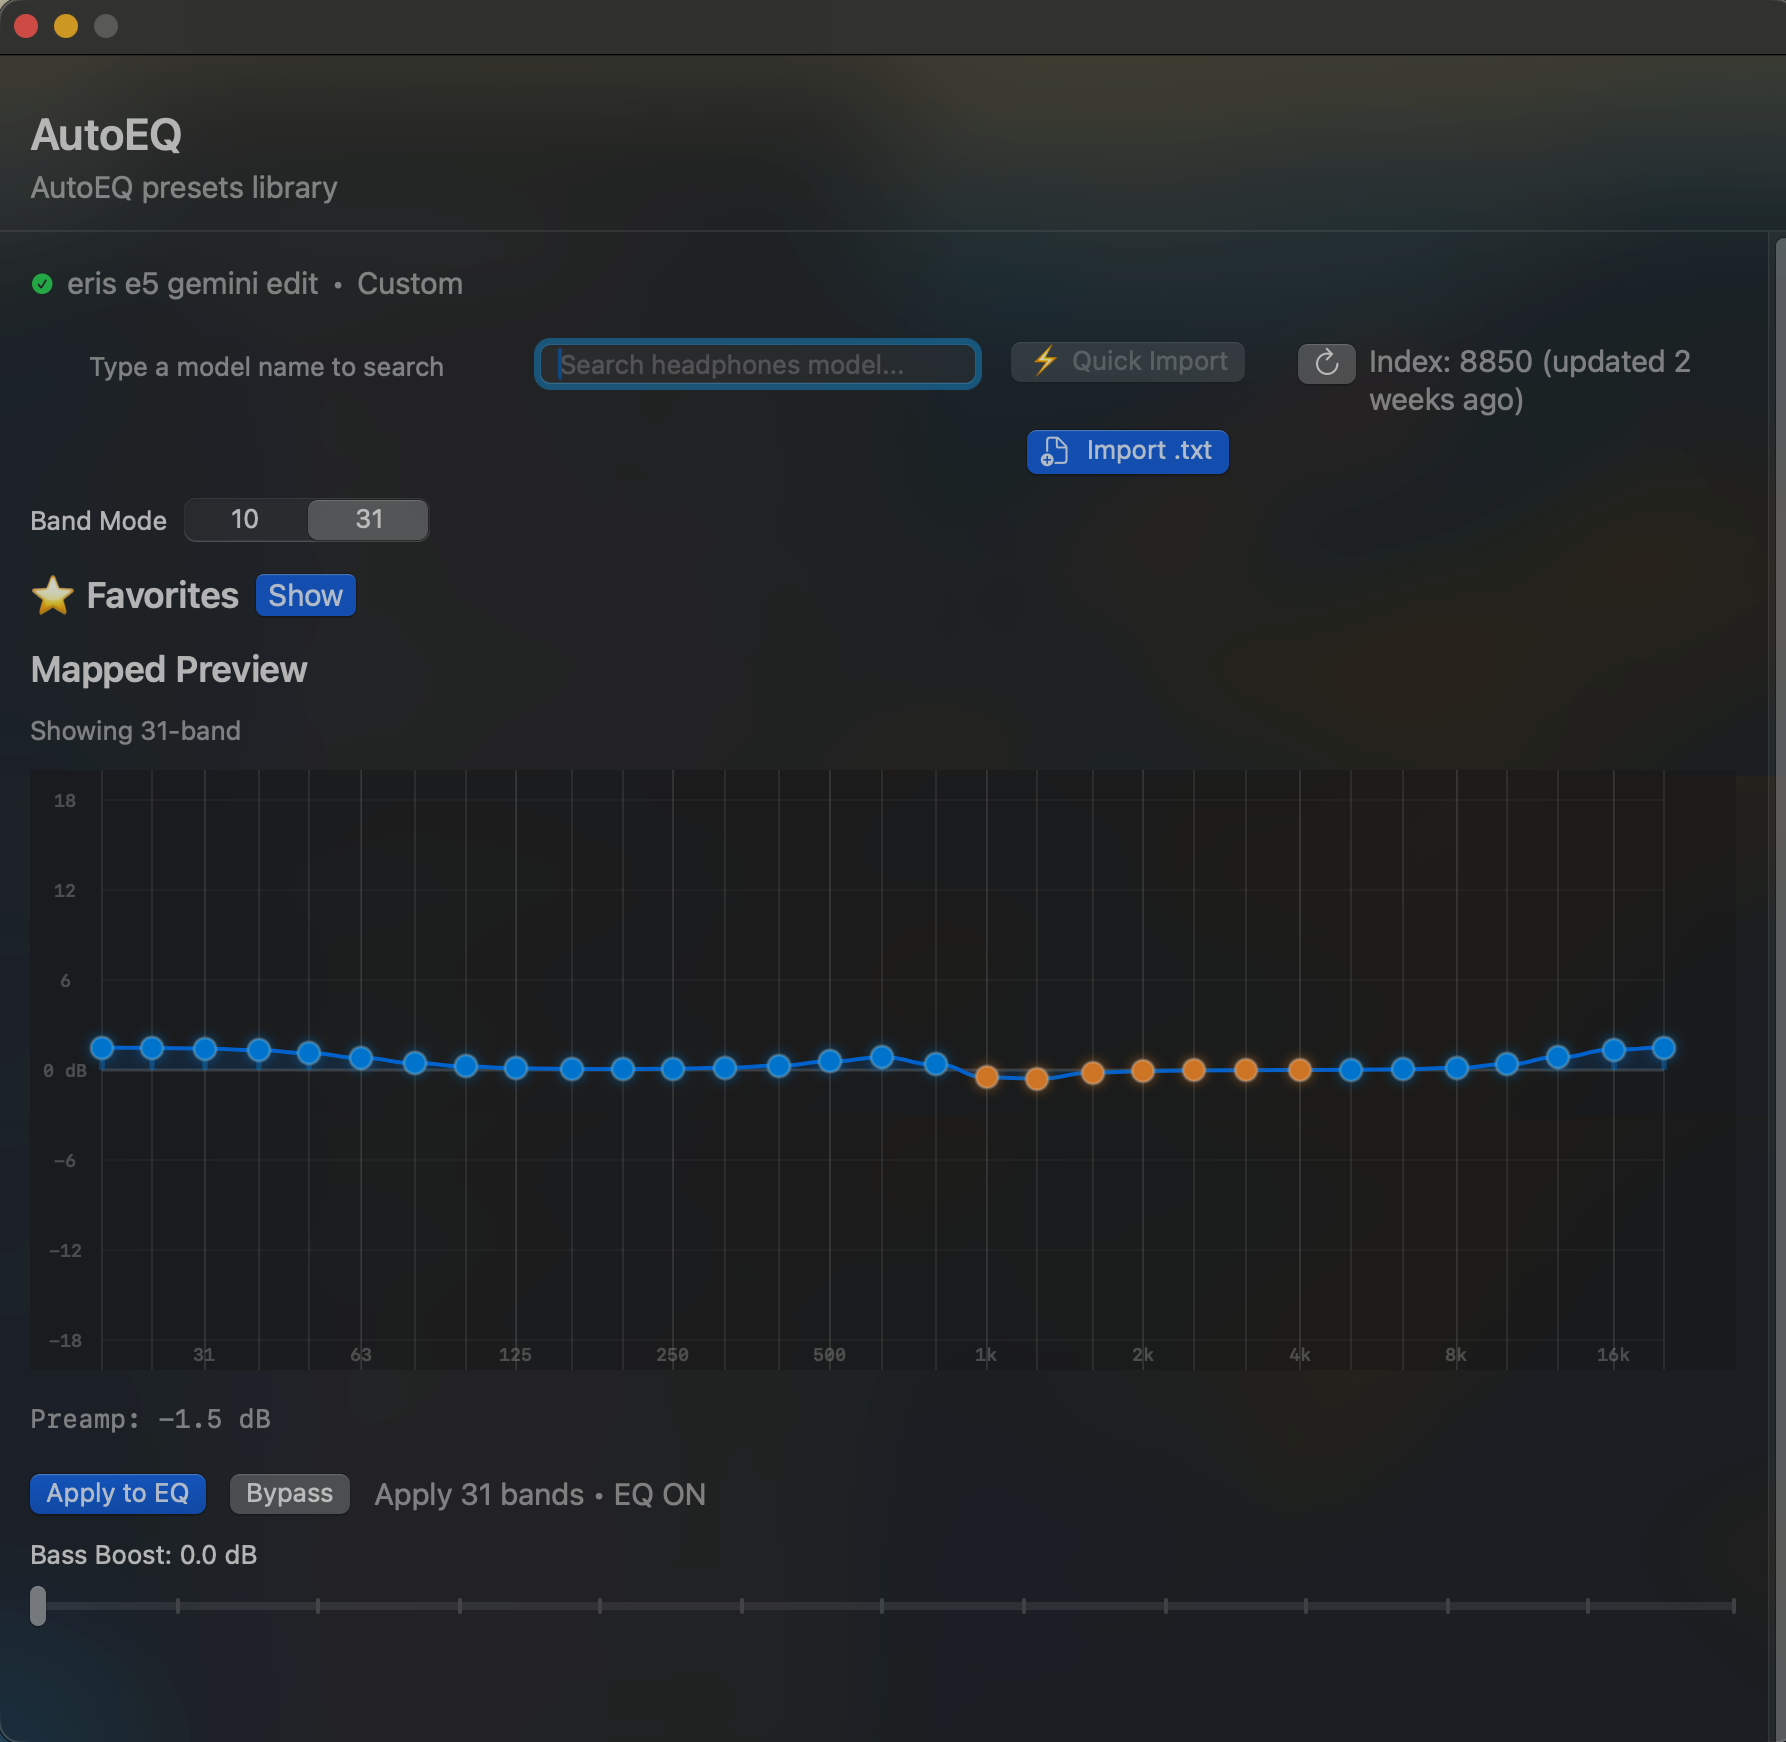
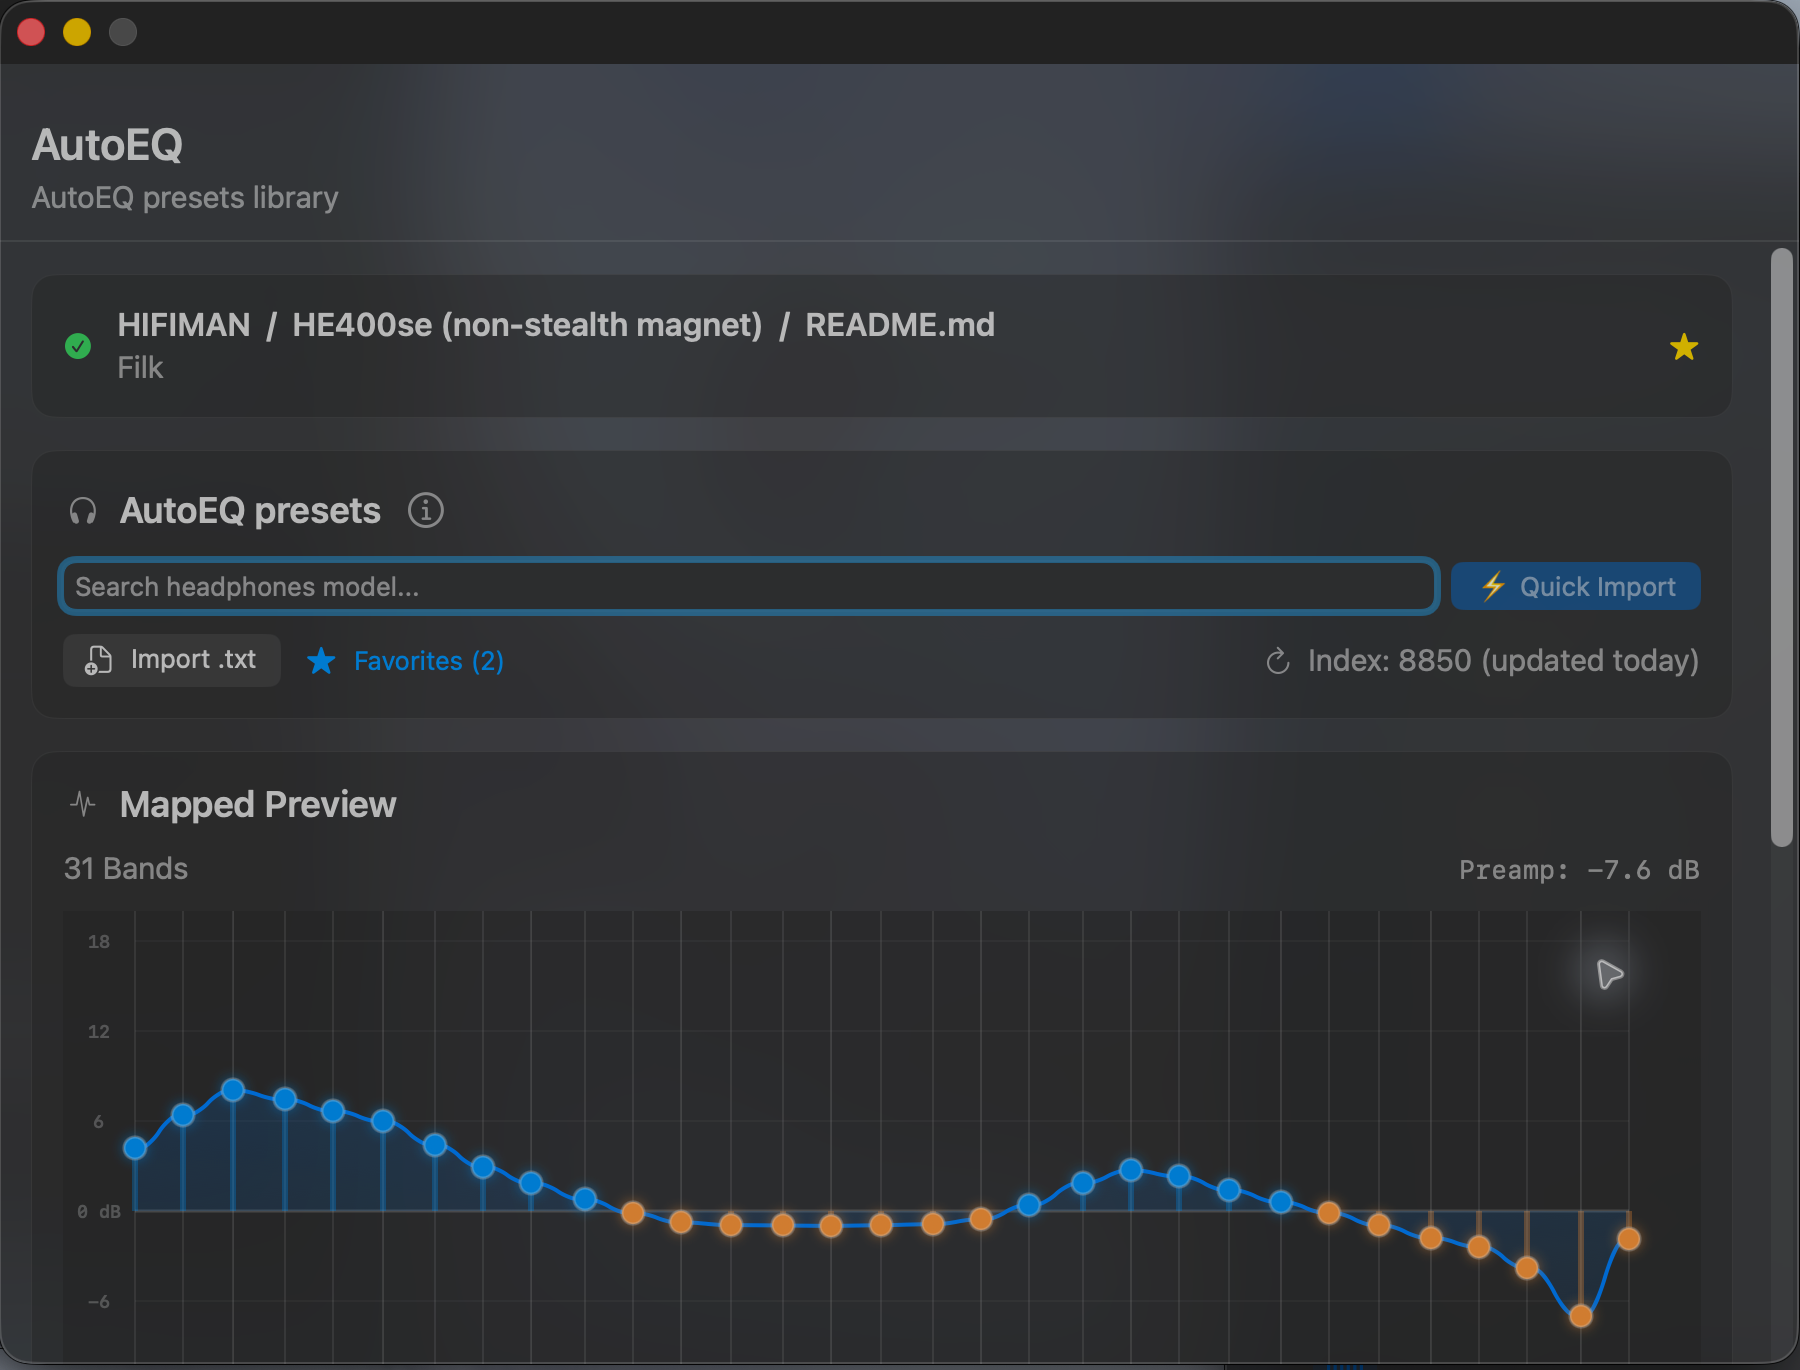
docs: refresh product screenshots

diff --git a/README.ua.md b/README.ua.md
@@ -22,9 +22,9 @@
 | :---: | :---: | :---: | :---: |
 | [![EQ](Docs/screenshots/03-eq-31.png)](Docs/screenshots/03-eq-31.png) | [![AutoEQ](Docs/screenshots/07-autoeq.png)](Docs/screenshots/07-autoeq.png) | [![Калібрація](Docs/screenshots/04-calibration.png)](Docs/screenshots/04-calibration.png) | [![Візуалізатор](Docs/screenshots/10-visualizer.png)](Docs/screenshots/10-visualizer.png) |
 
-| Суб’єктивне налаштування кімнати | Пошук резонансів |
-| :---: | :---: |
-| [![Налаштування кімнати](Docs/screenshots/05-room-tuning.png)](Docs/screenshots/05-room-tuning.png) | [![Пошук резонансів](Docs/screenshots/06-resonance.png)](Docs/screenshots/06-resonance.png) |
+| Суб’єктивне налаштування кімнати | Пошук резонансів | Пресети для кожного виводу |
+| :---: | :---: | :---: |
+| [![Налаштування кімнати](Docs/screenshots/05-room-tuning.png)](Docs/screenshots/05-room-tuning.png) | [![Пошук резонансів](Docs/screenshots/06-resonance.png)](Docs/screenshots/06-resonance.png) | [![Налаштування](Docs/screenshots/09-settings.jpeg)](Docs/screenshots/09-settings.jpeg) |
 
 ## ✨ Можливості
 

diff --git a/README.it.md b/README.it.md
@@ -22,9 +22,9 @@ dell'udito, strumenti per l'ambiente e visualizzatore in tempo reale. Nessun abb
 | :---: | :---: | :---: | :---: |
 | [![EQ](Docs/screenshots/03-eq-31.png)](Docs/screenshots/03-eq-31.png) | [![AutoEQ](Docs/screenshots/07-autoeq.png)](Docs/screenshots/07-autoeq.png) | [![Calibrazione](Docs/screenshots/04-calibration.png)](Docs/screenshots/04-calibration.png) | [![Visualizzatore](Docs/screenshots/10-visualizer.png)](Docs/screenshots/10-visualizer.png) |
 
-| Regolazione Soggettiva Stanza | Trova Risonanze |
-| :---: | :---: |
-| [![Regolazione ambiente](Docs/screenshots/05-room-tuning.png)](Docs/screenshots/05-room-tuning.png) | [![Ricerca risonanze](Docs/screenshots/06-resonance.png)](Docs/screenshots/06-resonance.png) |
+| Regolazione Soggettiva Stanza | Trova Risonanze | Preset per uscita |
+| :---: | :---: | :---: |
+| [![Regolazione ambiente](Docs/screenshots/05-room-tuning.png)](Docs/screenshots/05-room-tuning.png) | [![Ricerca risonanze](Docs/screenshots/06-resonance.png)](Docs/screenshots/06-resonance.png) | [![Impostazioni](Docs/screenshots/09-settings.jpeg)](Docs/screenshots/09-settings.jpeg) |
 
 ## ✨ Funzionalità
 

diff --git a/README.md b/README.md
@@ -23,9 +23,9 @@ no telemetry.
 | :---: | :---: | :---: | :---: |
 | [![EQ](Docs/screenshots/03-eq-31.png)](Docs/screenshots/03-eq-31.png) | [![AutoEQ](Docs/screenshots/07-autoeq.png)](Docs/screenshots/07-autoeq.png) | [![Calibration](Docs/screenshots/04-calibration.png)](Docs/screenshots/04-calibration.png) | [![Visualizer](Docs/screenshots/10-visualizer.png)](Docs/screenshots/10-visualizer.png) |
 
-| Subjective Room Tuning | Resonance Finder |
-| :---: | :---: |
-| [![Room Tuning](Docs/screenshots/05-room-tuning.png)](Docs/screenshots/05-room-tuning.png) | [![Resonance Finder](Docs/screenshots/06-resonance.png)](Docs/screenshots/06-resonance.png) |
+| Subjective Room Tuning | Resonance Finder | Device-Aware Presets |
+| :---: | :---: | :---: |
+| [![Room Tuning](Docs/screenshots/05-room-tuning.png)](Docs/screenshots/05-room-tuning.png) | [![Resonance Finder](Docs/screenshots/06-resonance.png)](Docs/screenshots/06-resonance.png) | [![Settings](Docs/screenshots/09-settings.jpeg)](Docs/screenshots/09-settings.jpeg) |
 
 ## ✨ Features
 
